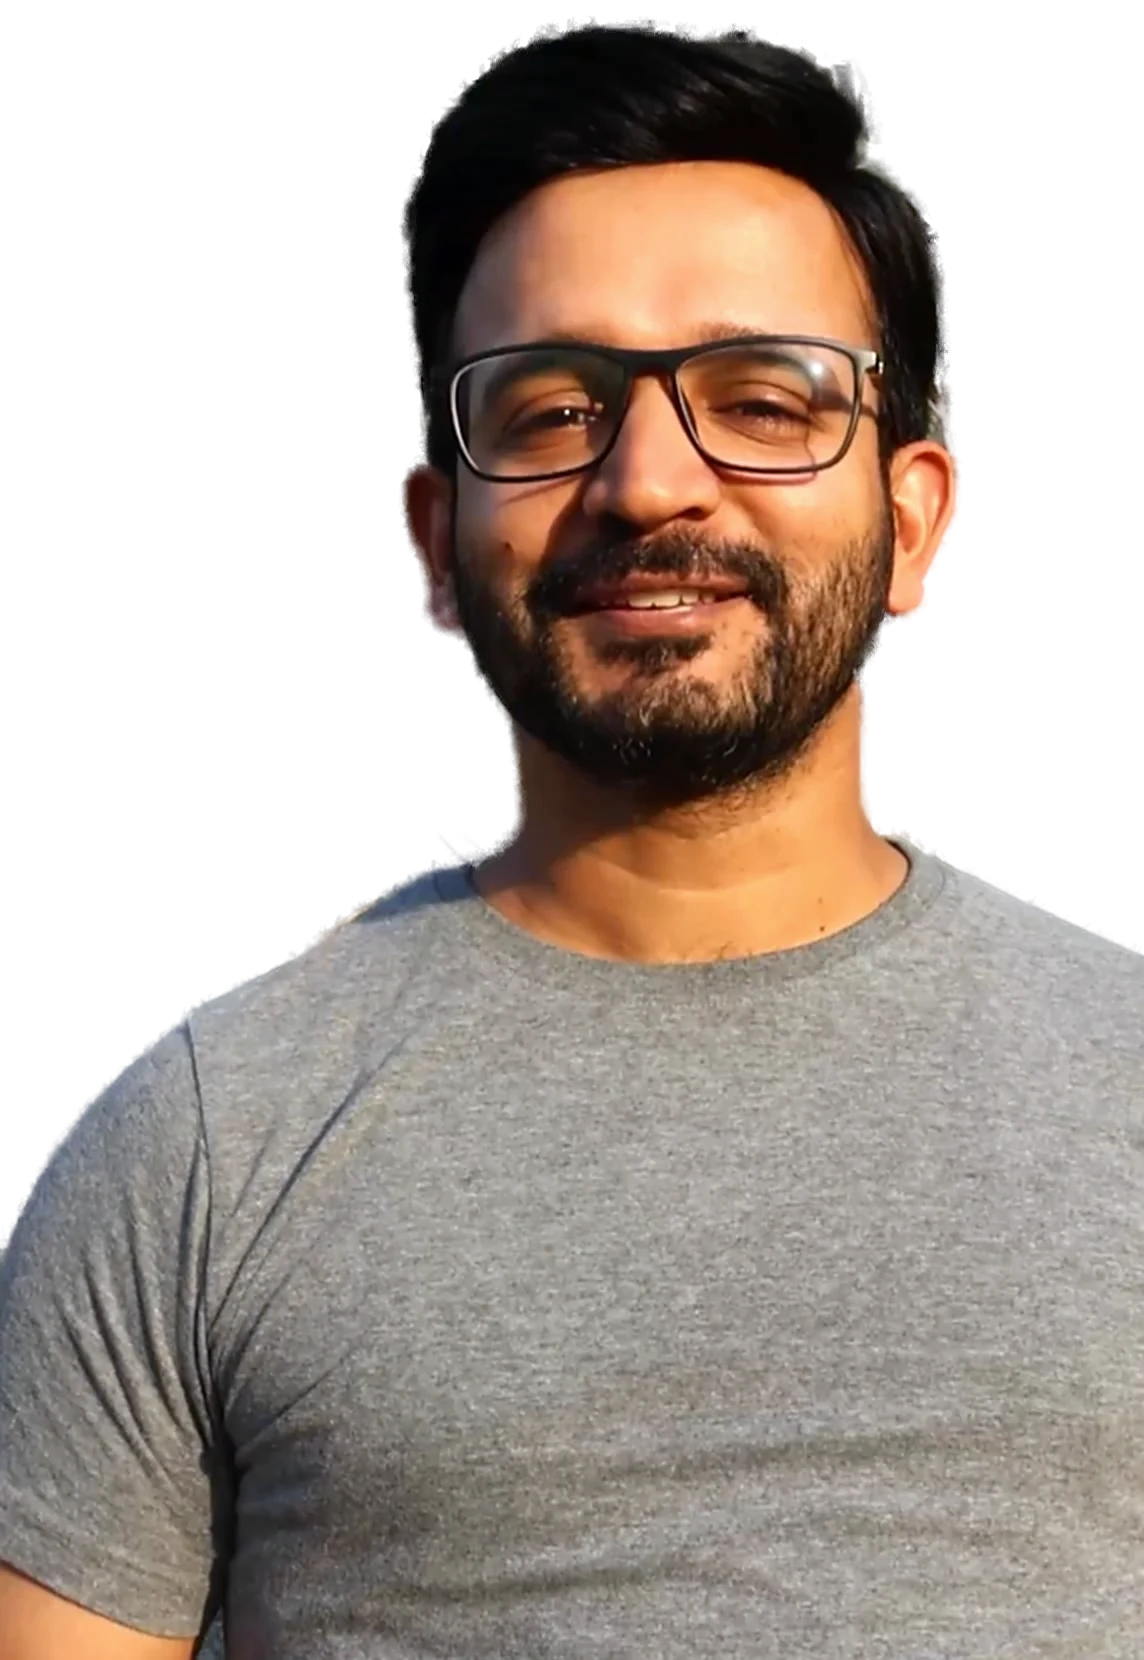
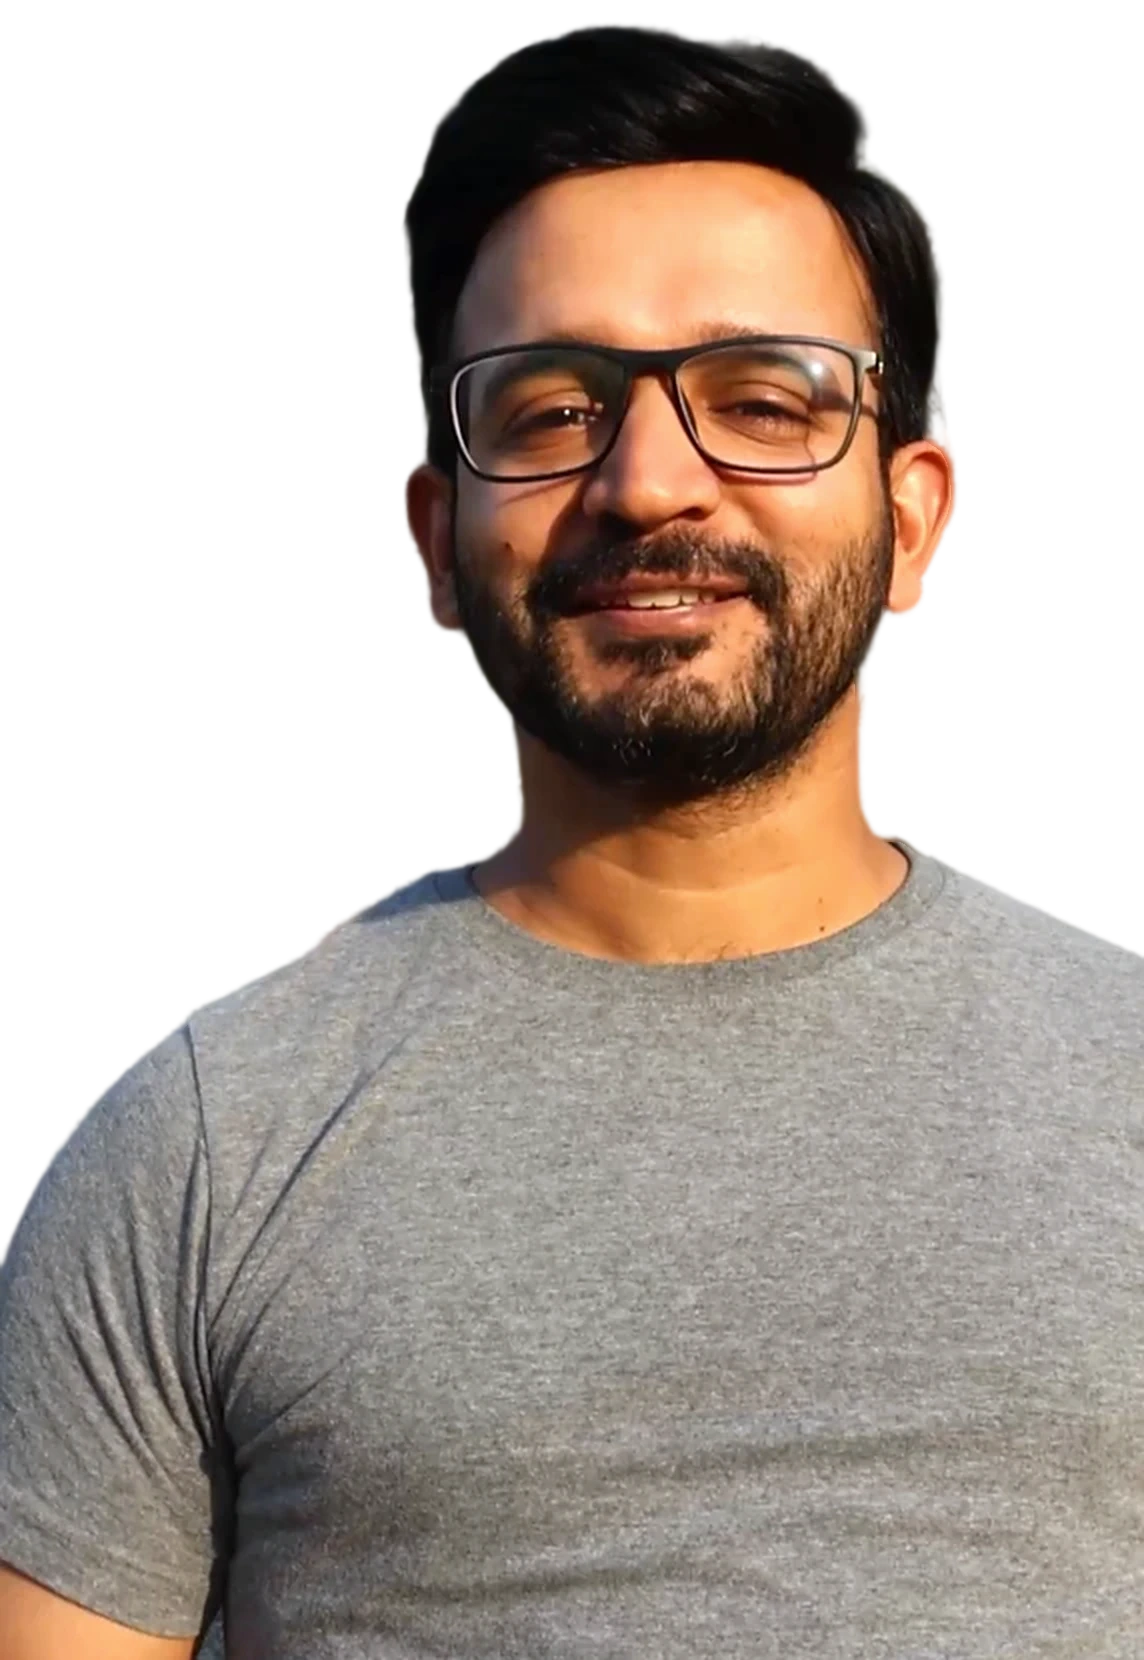
Interiors: 30-photo even grid, 12 new hotel shots, resort band, 11-question FAQ, cleaner portrait
Claude-Session: https://claude.ai/code/session_01XZkEFUsiEy91sh4cSs6xN1

diff --git a/interiors/index.html b/interiors/index.html
@@ -23,7 +23,7 @@
 /* Layout: mobile-first conversion page in a problem → agitation → solution arc. White pages broken by deep-ink bands; coral only for actions and highlighted words, teal for trust. Single light theme by choice. */
 :root{
   --bg:#FFFFFF; --alt:#F2F7F8; --ink:#0A1A24; --ink-2:#132A36; --fg:#0E1B22; --muted:#4F5F68; --muted-d:#A9BCC6;
-  --line:#DCE6EA; --line-d:#22404E; --teal:#0B6E74; --teal-l:#7FD3CF; --coral:#F2542D; --coral-d:#D63F1A; --marker:#FFD3C4; --wa:#1FA855;
+  --line:#DCE6EA; --line-d:#22404E; --teal:#0B6E74; --teal-l:#7FD3CF; --coral:#F2542D; --coral-d:#D63F1A; --marker:#FF9F85; --wa:#1FA855;
   --display:"Bricolage Grotesque","Segoe UI",system-ui,sans-serif;
   --body:"Manrope","Segoe UI",system-ui,sans-serif;
   --gl:max(16px, env(safe-area-inset-left,0px)); --gr:max(16px, env(safe-area-inset-right,0px));
@@ -50,8 +50,8 @@ section{padding-block:clamp(60px,10vw,128px)}
 .mt{margin-top:14px}
 
 /* highlighter: wraps across lines, sweeps in */
-.hl{background-image:linear-gradient(transparent 58%,var(--marker) 58%,var(--marker) 92%,transparent 92%);background-repeat:no-repeat;background-size:100% 100%;-webkit-box-decoration-break:clone;box-decoration-break:clone;padding-inline:.06em;animation:mark 1.1s .5s cubic-bezier(.6,.1,.2,1) both}
-.dark .hl{background-image:linear-gradient(transparent 60%,rgba(242,84,45,.85) 60%,rgba(242,84,45,.85) 92%,transparent 92%)}
+.hl{background-image:linear-gradient(transparent 56%,var(--marker) 56%,var(--marker) 94%,transparent 94%);background-repeat:no-repeat;background-size:100% 100%;-webkit-box-decoration-break:clone;box-decoration-break:clone;padding-inline:.06em;animation:mark 1.1s .5s cubic-bezier(.6,.1,.2,1) both}
+.dark .hl{background-image:linear-gradient(transparent 58%,var(--coral) 58%,var(--coral) 94%,transparent 94%)}
 @keyframes mark{from{background-size:0% 100%}to{background-size:100% 100%}}
 .txt-coral{color:var(--coral)}
 
@@ -91,6 +91,9 @@ body::before{content:"";position:fixed;inset:0 0 auto;height:env(safe-area-inset
 .hero .ghost{color:#fff}
 .trust{display:flex;flex-wrap:wrap;align-items:center;gap:6px 16px;margin-top:24px;font-size:14px;color:var(--muted-d)}
 .trust b{color:#fff}
+.promise{list-style:none;margin:26px 0 0;padding:0;display:grid;grid-template-columns:repeat(3,1fr);gap:10px;max-width:520px}
+.promise li{background:rgba(255,255,255,.06);border:1px solid var(--line-d);border-radius:12px;padding:12px 14px;display:grid;gap:2px;font-size:12.5px;color:var(--muted-d);font-weight:600;line-height:1.3}
+.promise b{font-family:var(--display);font-size:22px;color:#fff;line-height:1.1}
 .hero-media{position:relative;min-width:0}
 .hero-media img{width:100%;aspect-ratio:1/1.08;object-fit:cover;border-radius:18px;box-shadow:0 40px 80px rgba(0,0,0,.45)}
 .chip-float{position:absolute;background:#fff;color:var(--fg);border-radius:14px;padding:10px 14px;box-shadow:0 18px 40px rgba(0,0,0,.3);display:grid;gap:2px;font-size:12.5px;line-height:1.3;font-weight:600;animation:float 6s ease-in-out infinite}
@@ -163,6 +166,16 @@ body::before{content:"";position:fixed;inset:0 0 auto;height:env(safe-area-inset
 .stat>span{color:var(--muted-d);font-size:13.5px;font-weight:600}
 @media (max-width:760px){.stats{grid-template-columns:1fr 1fr}.stat{padding:18px 14px}.stat:nth-child(odd){border-left:0;padding-left:0}.stat:nth-child(n+3){border-top:1px solid var(--line-d)}}
 
+/* resort band */
+.band{position:relative;padding-block:clamp(220px,34vw,420px) clamp(28px,5vw,64px);overflow:hidden;color:var(--fg)}
+.band>img{position:absolute;inset:0;width:100%;height:100%;object-fit:cover}
+.band::after{content:"";position:absolute;inset:0;background:linear-gradient(180deg,rgba(10,26,36,0) 40%,rgba(10,26,36,.55) 100%)}
+.band .wrap{position:relative;z-index:1}
+.band-card{max-width:560px;background:rgba(255,255,255,.92);-webkit-backdrop-filter:blur(12px);backdrop-filter:blur(12px);border-radius:18px;padding:clamp(20px,3vw,32px);display:grid;gap:14px;box-shadow:0 24px 60px rgba(0,0,0,.25)}
+.band-card p{color:var(--muted)}
+.band-card .btn{justify-self:start}
+@media (max-width:520px){.band{padding-top:200px}.band-card .btn{justify-self:stretch}}
+
 /* gallery */
 .g-head{display:grid;grid-template-columns:1fr auto;gap:20px 24px;align-items:end;margin-bottom:28px}
 @media (max-width:820px){.g-head{grid-template-columns:1fr}}
@@ -171,16 +184,17 @@ body::before{content:"";position:fixed;inset:0 0 auto;height:env(safe-area-inset
 .chip{flex:none;font:700 14px var(--body);min-height:42px;padding:9px 16px;border-radius:999px;border:1.5px solid var(--line);background:transparent;color:var(--muted);cursor:pointer}
 .chip:hover{border-color:var(--teal);color:var(--teal)}
 .chip[aria-pressed="true"]{background:var(--ink);color:#fff;border-color:var(--ink)}
-.grid{columns:3 300px;column-gap:12px}
-.shot{break-inside:avoid;margin:0 0 12px;position:relative;cursor:zoom-in;overflow:hidden;border-radius:12px;background:var(--line)}
-.shot img{width:100%;height:auto;transition:transform .7s ease}
+.grid{display:grid;grid-template-columns:repeat(3,minmax(0,1fr));gap:12px}
+.shot{margin:0;position:relative;cursor:zoom-in;overflow:hidden;border-radius:12px;background:var(--line)}
+.shot img{width:100%;height:auto;aspect-ratio:3/2;object-fit:cover;transition:transform .7s ease}
 .shot:hover img{transform:scale(1.04)}
 .shot figcaption{position:absolute;left:0;right:0;bottom:0;padding:30px 12px 10px;background:linear-gradient(transparent,rgba(0,0,0,.65));color:#fff;font-size:11.5px;font-weight:700;letter-spacing:.1em;text-transform:uppercase}
 .shot button{all:unset;position:absolute;inset:0}
 .more-wrap{display:flex;justify-content:center;margin-top:18px}
 .grid.clip .shot.extra{display:none}
 .shot button:focus-visible{outline:3px solid var(--coral);outline-offset:-4px}
-@media (max-width:640px){.grid{columns:2 150px;column-gap:8px}.shot{margin-bottom:8px;border-radius:10px}.shot figcaption{font-size:10px;padding:22px 8px 7px;letter-spacing:.06em}}
+@media (max-width:900px){.grid{grid-template-columns:repeat(2,minmax(0,1fr))}}
+@media (max-width:640px){.grid{gap:8px}.shot{border-radius:10px}.shot figcaption{font-size:10px;padding:22px 8px 7px;letter-spacing:.06em}}
 
 /* lightbox */
 .lb{position:fixed;inset:0;z-index:100;background:rgba(6,14,20,.96);display:grid;grid-template-rows:auto 1fr auto;padding:max(12px,env(safe-area-inset-top,0px)) var(--gr) max(12px,env(safe-area-inset-bottom,0px)) var(--gl);color:#eee}
@@ -221,7 +235,8 @@ body::before{content:"";position:fixed;inset:0 0 auto;height:env(safe-area-inset
 .faq summary::-webkit-details-marker{display:none}
 .faq summary::after{content:"+";font-size:28px;line-height:1;color:var(--coral);transition:transform .25s;flex:none}
 .faq details[open] summary::after{transform:rotate(45deg)}
-.faq details p{color:var(--muted);padding-bottom:16px;max-width:64ch}
+.faq details p{color:var(--muted);padding-bottom:18px;max-width:66ch}
+.faq details p b{color:var(--fg)}
 
 /* final cta */
 .final .wrap{display:grid;grid-template-columns:1.1fr .9fr;gap:clamp(28px,6vw,72px);align-items:start}
@@ -308,6 +323,11 @@ footer a{color:var(--teal-l);font-weight:700;text-decoration:none}
           <span><b>40+ hotels</b> since 2016</span>
           <span>Gold Souk · Shimla Heritage · V Resorts</span>
         </div>
+        <ul class="promise rise d4">
+          <li><b>2-3 hrs</b>Quote on WhatsApp</li>
+          <li><b>3 days</b>Final edited photos</li>
+          <li><b>₹0</b>Photo audit</li>
+        </ul>
       </div>
       <div class="hero-media rise d2">
         <img src="img/goldsouk-suite.jpg" alt="Gold Souk hotel suite with tufted headboard, lounge seating and warm lighting" fetchpriority="high">
@@ -388,7 +408,20 @@ footer a{color:var(--teal-l);font-weight:700;text-decoration:none}
         <div class="stat"><b><span class="count" data-to="40">40</span><em>+</em></b><span>Hotels &amp; properties</span></div>
         <div class="stat"><b><span class="count" data-to="10">10</span><em>+</em></b><span>Years shooting</span></div>
         <div class="stat"><b>2016</b><span>Shooting hotels since</span></div>
-        <div class="stat"><b>Pan<em>-</em>India</b><span>Delhi NCR to Shimla</span></div>
+        <div class="stat"><b>Pan<em>-</em>India</b><span>Delhi NCR, Shimla, Bodhgaya</span></div>
+      </div>
+    </div>
+  </section>
+
+  <!-- RESORT BAND -->
+  <section class="band" aria-label="Resorts">
+    <img src="img/joystreet-villas.jpg" alt="Joystreet resort villas and courtyard lit at dusk" loading="lazy">
+    <div class="wrap">
+      <div class="band-card reveal">
+        <span class="eyebrow">Hotels · Resorts · Restaurants</span>
+        <h2 class="mt">From a 15-room city hotel to a <span class="hl">full resort.</span></h2>
+        <p>Rooms, pools, lobbies, restaurants and twilight exteriors. One photographer, one consistent look across your whole property.</p>
+        <a class="btn btn-cta wa-audit" href="#" target="_blank" rel="noopener">Plan my shoot</a>
       </div>
     </div>
   </section>
@@ -432,9 +465,9 @@ footer a{color:var(--teal-l);font-weight:700;text-decoration:none}
         <h2 class="mt">Three steps to photos that <span class="hl">sell your rooms.</span></h2>
       </div>
       <ol class="steps">
-        <li class="reveal"><h3>Send your listing link</h3><p>WhatsApp me your MakeMyTrip, Booking.com or Google link. You get a free, honest audit of your current photos and a fixed quote.</p></li>
+        <li class="reveal"><h3>Send your listing link</h3><p>WhatsApp me your MakeMyTrip, Booking.com or Google link. You get a free, honest audit of your current photos and a fixed quote within 2-3 hours.</p></li>
         <li class="reveal"><h3>Shoot day</h3><p>I style and light every room frame by frame, planned around your occupancy so operations keep running.</p></li>
-        <li class="reveal"><h3>Go live and get noticed</h3><p>Edited, listing-ready photos land in a shared folder. Upload them and let your rooms do the selling.</p></li>
+        <li class="reveal"><h3>Photos in 3 days</h3><p>Hand-edited, listing-ready photos land in a shared folder within 3 days. Upload them and let your rooms do the selling.</p></li>
       </ol>
     </div>
   </section>
@@ -459,14 +492,20 @@ footer a{color:var(--teal-l);font-weight:700;text-decoration:none}
     <div class="wrap">
       <div class="reveal" style="margin-bottom:20px">
         <span class="eyebrow">Questions</span>
-        <h2 class="mt">Before you book.</h2>
+        <h2 class="mt">Everything owners ask <span class="hl">before booking.</span></h2>
       </div>
       <div class="faq">
-        <details open><summary>How much does a shoot cost?</summary><p>There are packages for every size of hotel, including small properties. Send your number of room types on WhatsApp and you get an exact quote.</p></details>
-        <details><summary>Will the shoot disturb my guests?</summary><p>No. The shoot is planned room by room around your occupancy, so check-ins and service carry on as normal.</p></details>
-        <details><summary>How long does the shoot take?</summary><p>Most hotels are covered in a few hours on a single day. Larger properties and resorts are planned in advance.</p></details>
-        <details><summary>What exactly do I get?</summary><p>High-resolution, hand-edited photos sized for OTAs, Google, your website and print. A walkthrough reel can be added for Instagram.</p></details>
-        <details><summary>Do you travel outside Delhi?</summary><p>Yes. I shoot across India, from Delhi NCR hotels to Shimla and V Resorts properties in Uttarakhand and Maharashtra.</p></details>
+        <details open><summary>How much does a hotel shoot cost?</summary><p>Less than most owners expect, and far less than one month of rooms sold at a discount. Packages are built for every size of property, from a 15-room hotel in Paharganj to a full resort. Send your number of room types on WhatsApp and you get an exact, fixed quote within <b>2-3 hours</b>. No hidden charges.</p></details>
+        <details><summary>How fast will I get my photos?</summary><p>Final, hand-edited photos are delivered within <b>3 days</b> of the shoot, in a shared folder you can download from anywhere. Need them sooner for a launch or an OTA deadline? Mention it when you enquire.</p></details>
+        <details><summary>Will the shoot disturb my guests or staff?</summary><p>No. The shoot is planned room by room around your occupancy. Vacant rooms first, public areas at quiet hours. Check-ins, housekeeping and service carry on as normal.</p></details>
+        <details><summary>How long does the shoot take on the day?</summary><p>Most hotels are covered in a few hours on a single day. Larger properties and resorts are planned in advance so nothing is rushed.</p></details>
+        <details><summary>Do I need to prepare the rooms?</summary><p>Just keep them clean and made up. I style every frame myself: straightening linen, placing cushions, adjusting curtains and lights, and moving clutter out of shot. You will get a short checklist before the shoot.</p></details>
+        <details><summary>Will the photos work on MakeMyTrip, Booking.com and Google?</summary><p>Yes. Every photo is delivered in the right sizes for OTAs, Google Business Profile, Airbnb, your website and print. They are ready to upload the same day you receive them.</p></details>
+        <details><summary>Do you over-edit or fake the rooms?</summary><p>Never. Guests who feel misled leave bad reviews. I correct light, colour and lines so the room looks exactly as good as it is in real life, at its best moment.</p></details>
+        <details><summary>What is the free photo audit?</summary><p>Send your listing link on WhatsApp. I review your current photos and tell you honestly what is costing you clicks and what to fix first, with a fixed quote. No obligation to book.</p></details>
+        <details><summary>Can you shoot restaurants, offices and homes too?</summary><p>Yes. Alongside 40+ hotels I have shot restaurants, corporate offices and residential projects, including work for Rajan Wadhwa Associates.</p></details>
+        <details><summary>Do you travel outside Delhi?</summary><p>Yes, across India. Recent shoots include Shimla and Bodhgaya, along with V Resorts properties in Uttarakhand and Maharashtra. Travel is planned into your quote upfront.</p></details>
+        <details><summary>Can I use the photos for ads and print?</summary><p>Yes. The photos are yours to use on your listings, website, social media, ads, brochures and signage.</p></details>
       </div>
     </div>
   </section>
@@ -477,7 +516,7 @@ footer a{color:var(--teal-l);font-weight:700;text-decoration:none}
       <div>
         <span class="eyebrow">Your move</span>
         <h2 class="mt">The next guest is choosing <span class="hl">right now.</span></h2>
-        <p class="lead" style="margin-top:18px">Make sure they choose you. Send your listing link today and get a free photo audit plus a fixed quote on WhatsApp.</p>
+        <p class="lead" style="margin-top:18px">Make sure they choose you. Send your listing link today. Free photo audit, a fixed quote within 2-3 hours, and final photos 3 days after the shoot.</p>
         <div class="ctas">
           <a class="btn btn-cta pulse wa-audit" href="#" target="_blank" rel="noopener">Get my free photo audit</a>
           <a class="btn btn-ghost ghost" href="tel:+919958618234">Call +91 99586 18234</a>
@@ -535,7 +574,7 @@ const WA='919958618234';
 const AUDIT=`https://wa.me/${WA}?text=${encodeURIComponent("Hi Hitesh, I'd like a free photo audit for my property. My listing link: ")}`;
 document.querySelectorAll('.wa-audit').forEach(a=>a.href=AUDIT);
 
-const CLIENTS=["Shimla Heritage","Gold Souk","Rajan Wadhwa Associates (RWA)","Hotel Picasso","Pearl","Bluestone","V Resorts","Joystreet Hotels","White Feather Hospitality","Hotel Shanti Palace","Palm D'or","Krishna Group of Hotels","Le Continental","Hotel Delhi Heart","Baba Residency","Baba Inn","Olive & Blue","Hotel Oxford International","Hotel Shrivinayak"];
+const CLIENTS=["Shimla Heritage","Gold Souk","Joystreet Hotels","V Resorts","Rajan Wadhwa Associates (RWA)","Hotel Shanti Palace","Silver Ferns","Mamra","Hotel Tara Palace","Hotel Crown","Hotel Banz","Jivitesh","Grandway","Garv Residency","Stay Well DX","Shipra International","Hotel Tathagat","Tathagat Inn","Hotel Picasso","Pearl","Bluestone","White Feather Hospitality","Palm D'or","Krishna Group of Hotels","Le Continental","Hotel Delhi Heart","Baba Residency","Baba Inn","Olive & Blue","Hotel Oxford International","Hotel Shrivinayak"];
 const esc=s=>s.replace(/&/g,'&amp;').replace(/</g,'&lt;');
 document.getElementById('names').innerHTML=CLIENTS.map(c=>`<span>${esc(c)}</span>`).join('')+'<span class="more">and many more</span>';
 const mq=CLIENTS.map(c=>`<span>${esc(c)}</span>`).join('');
@@ -543,28 +582,35 @@ document.getElementById('mq').innerHTML=mq+mq;
 
 const PHOTOS=[
  ["shimla-lobby","hotel","Shimla Heritage · Lobby","Shimla Heritage hotel lobby lounge under a crystal chandelier"],
+ ["joystreet-pool","hotel","Joystreet · Pool at night","Joystreet resort swimming pool lit at night"],
  ["goldsouk-suite-g","hotel","Gold Souk · Suite","Gold Souk suite with lounge seating and tufted headboard"],
- ["shimla-room","hotel","Shimla Heritage · Family room","Shimla Heritage room with padded headboard wall and red accents"],
+ ["joystreet-villas","hotel","Joystreet · Villas at dusk","Joystreet resort villas and courtyard at dusk"],
+ ["shanti-palace-deluxe","hotel","Hotel Shanti Palace · Deluxe","Hotel Shanti Palace deluxe room with tall leather headboard"],
+ ["silverferns-restaurant","dining","Silver Ferns · Restaurant","Silver Ferns restaurant with sculpted ceiling and set tables"],
+ ["mamra-pool","hotel","Mamra · Pool","Mamra hotel pool with loungers and greenery"],
  ["goldsouk-deluxe","hotel","Gold Souk · Deluxe room","Gold Souk deluxe room with grey headboard and wall sconces"],
+ ["shimla-room","hotel","Shimla Heritage · Family room","Shimla Heritage room with padded headboard wall and red accents"],
  ["goldsouk-dining","dining","Gold Souk · Restaurant","Gold Souk double-height restaurant with buffet counter"],
- ["shimla-twin","hotel","Shimla Heritage · Twin room","Shimla Heritage twin room with timber floor"],
+ ["joystreet-room","hotel","Joystreet · Room","Joystreet room with gold rose cushions and warm lighting"],
+ ["shanti-palace-lobby","hotel","Hotel Shanti Palace · Lobby","Bright hotel lobby with lounge seating and glass facade"],
  ["restaurant","dining","Restaurant · Lounge bar","Warm-lit hotel restaurant with booth seating and hanging glassware"],
+ ["mamra-room","hotel","Mamra · Room","Mamra hotel room with wooden floor and garden-facing windows"],
+ ["jivitesh-twin","hotel","Jivitesh · Twin room","Jivitesh twin room with patterned headboard panels"],
+ ["banz-deluxe","hotel","Hotel Banz · Deluxe","Hotel Banz deluxe room with tufted headboard"],
+ ["shimla-twin","hotel","Shimla Heritage · Twin room","Shimla Heritage twin room with timber floor"],
  ["dining-buffet","dining","Restaurant · Buffet","Hotel restaurant with buffet counter and banquette seating"],
- ["room-deluxe","hotel","Deluxe room","Deluxe hotel room with wooden headboard wall and lounge chairs"],
+ ["shanti-palace-room","hotel","Hotel Shanti Palace · Room","Hotel Shanti Palace room with lounge chairs and warm lamps"],
  ["office-cabin","office","Director's cabin","Director's cabin with white storage wall and leather sofa"],
- ["lobby-lounge","hotel","Lounge","Lounge with leather sofas, red feature wall and cove lighting"],
+ ["silverferns-room","hotel","Silver Ferns · Room","Silver Ferns hotel room with blue curtains and sofa"],
+ ["room-deluxe","hotel","Deluxe room","Deluxe hotel room with wooden headboard wall and lounge chairs"],
  ["dining-windows","dining","All-day dining","Bright dining room with full-height windows"],
+ ["office-conference","office","Glass boardroom","Glass-walled conference room with timber shelving"],
+ ["lobby-lounge","hotel","Lounge","Lounge with leather sofas, red feature wall and cove lighting"],
  ["residence-living","home","Residence · Living","Living room with cream sofas, red cushions and TV unit"],
  ["room-view","hotel","Room with a view","Hotel room with tall headboard and wide window"],
- ["office-conference","office","Glass boardroom","Glass-walled conference room with timber shelving"],
- ["room-suite","hotel","Suite","Hotel suite with glass partition and lounge area"],
- ["dining-cafe","dining","Café","Café dining with purple chairs beside a glass facade"],
  ["office-reception","office","Office reception","Office reception with timber floors and glass partitions"],
- ["room-premium","hotel","Premium room","Premium room with blue accent bedding"],
- ["residence-dining","home","Residence · Dining","Residential living and dining space with gold wall art"],
- ["office-workstations","office","Workstations","Open-plan workstations with orange panels"],
- ["room-twin","hotel","Twin room","Twin hotel room with timber wall panelling"],
- ["office-pantry","office","Office pantry","Office pantry with glass shelving and display wall"]
+ ["room-suite","hotel","Suite","Hotel suite with glass partition and lounge area"],
+ ["dining-cafe","dining","Café","Café dining with purple chairs beside a glass facade"]
 ];
 const grid=document.getElementById('grid');
 grid.innerHTML=PHOTOS.map((p,i)=>`<figure class="shot" data-c="${p[1]}"><img src="img/${p[0]}.jpg" alt="${p[3]}" loading="lazy" width="1600" height="1060"><figcaption>${p[2]}</figcaption><button aria-label="View ${p[2]} full size" data-i="${i}"></button></figure>`).join('');
